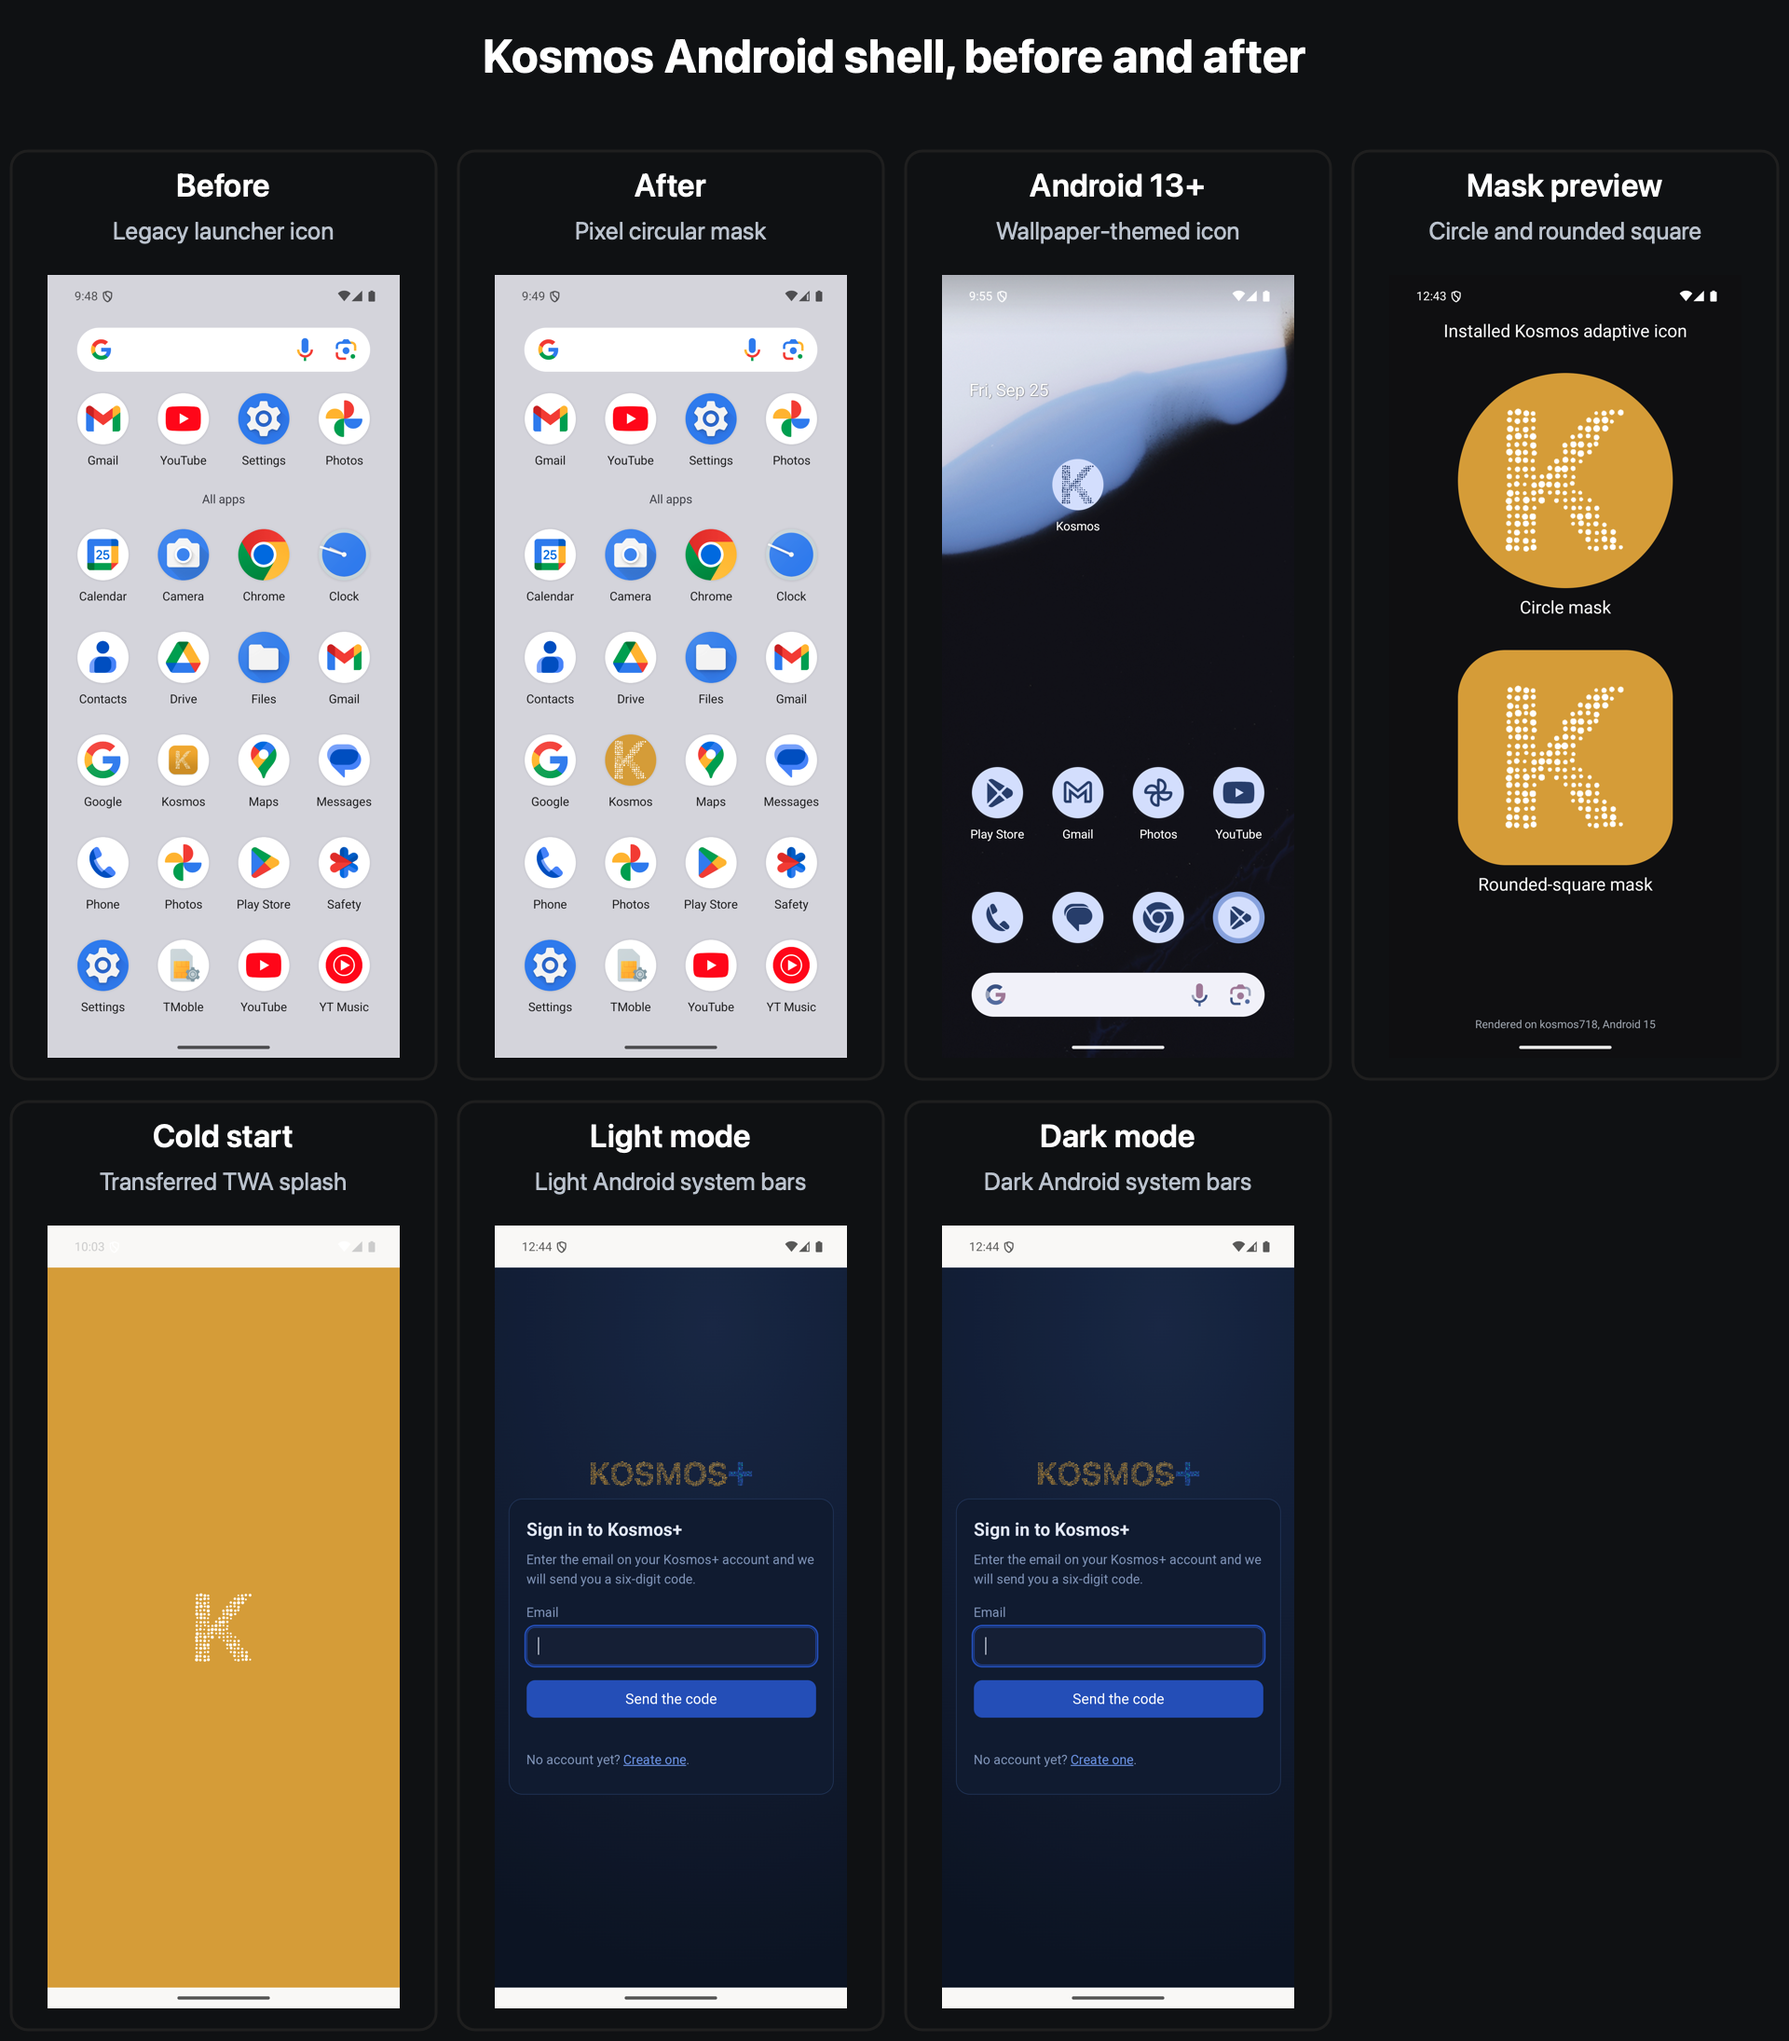
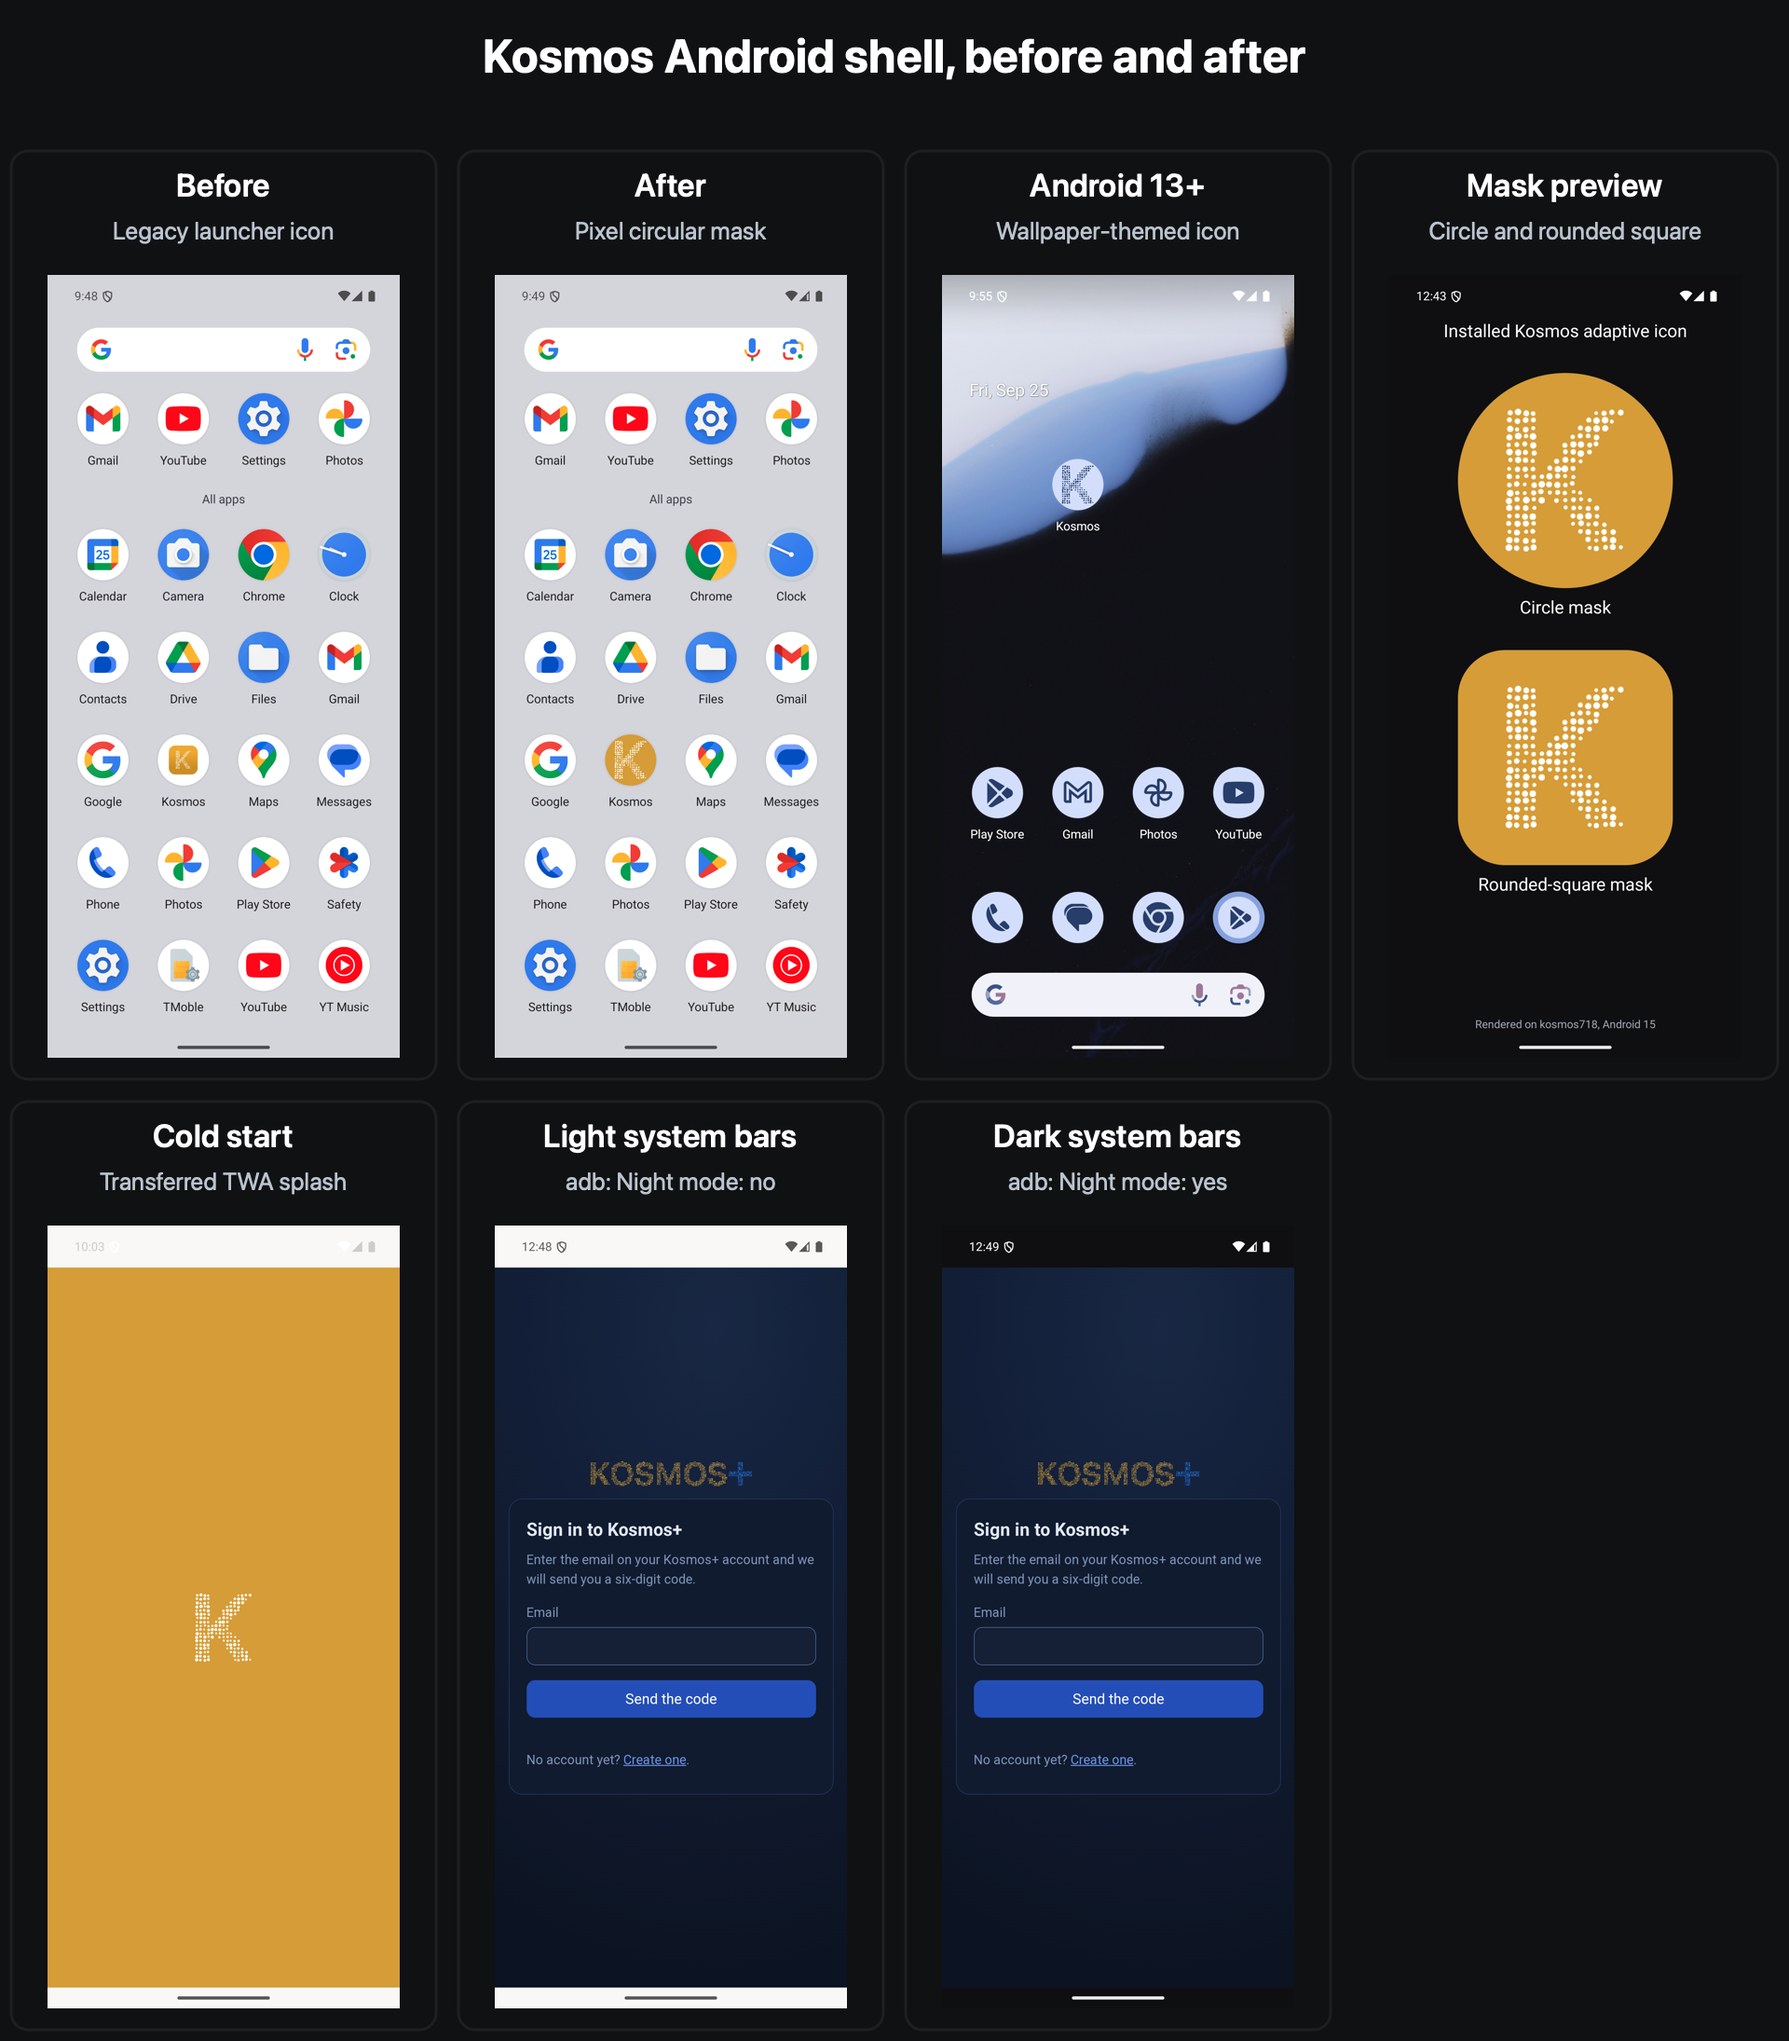
Verify dark Android system bars

Changed region(s): [[0.5312, 0.5279, 0.7188, 0.621], [0.3125, 0.5279, 0.4375, 0.59], [0.5312, 0.9626, 0.7188, 0.9936]]

diff --git a/android/evidence/android-shell-718/README.md b/android/evidence/android-shell-718/README.md
@@ -15,8 +15,12 @@ release APK for `io.kosmos.app`.
 - Cold start: Android Browser Helper's transferred TWA splash after adding its
   required private `FileProvider`. The gold field and centered white K replace
   the previous white handoff.
-- Light and dark mode: the site remains dark, while Android-controlled status
-  and navigation bars switch between the qualified shell colors.
+- Light and dark mode: the navy site content remains unchanged and is not the
+  mode proof. The Android-controlled top status bar and bottom navigation bar
+  switch from `#faf9f7` with dark controls to `#0c0d0f` with light controls.
+  Before each capture, `adb shell cmd uimode night` reported `Night mode: no`
+  for the light panel and `Night mode: yes` for the dark panel. The app and
+  Chrome were both stopped between captures so the TWA read fresh metadata.
 
 The mask preview loads `io.kosmos.app` through Android's package manager and
 draws its installed `AdaptiveIconDrawable` background and foreground. Both

diff --git a/android/README.md b/android/README.md
@@ -59,8 +59,11 @@ Chrome, which Android Browser Helper requires to transfer the splash bitmap.
 
 The status and navigation bars match the board tokens: `#faf9f7` in light mode
 and `#0c0d0f` in dark mode. Both the activity theme and the TWA metadata read
-qualified colour resources, so a theme change reaches Chrome as well as the
-native launch window.
+qualified activity colours. The TWA dark metadata uses separate, explicit dark
+resource IDs so Chrome receives `#0c0d0f` instead of reusing the light metadata
+ID. The navy page content does not change between the evidence panels. The mode
+proof is the Android-controlled top and bottom bars switching from the light
+theme surface with dark controls to the near-black surface with light controls.
 
 ## Build toolchain (already installed on this box)
 
